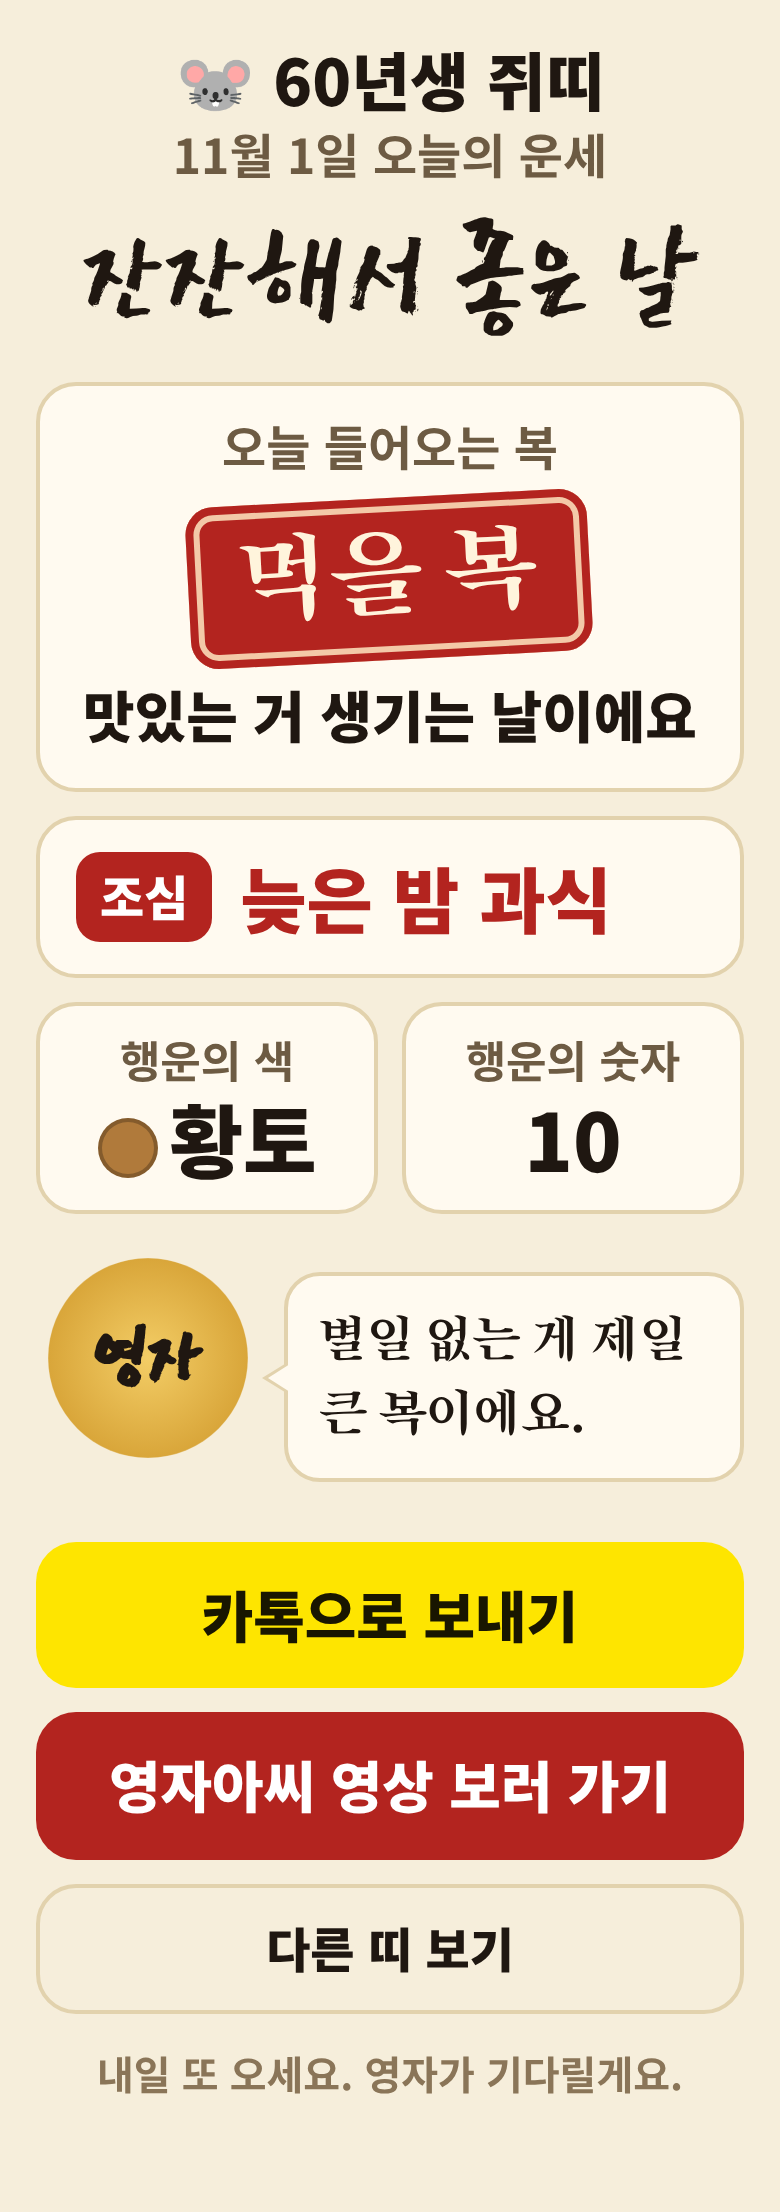
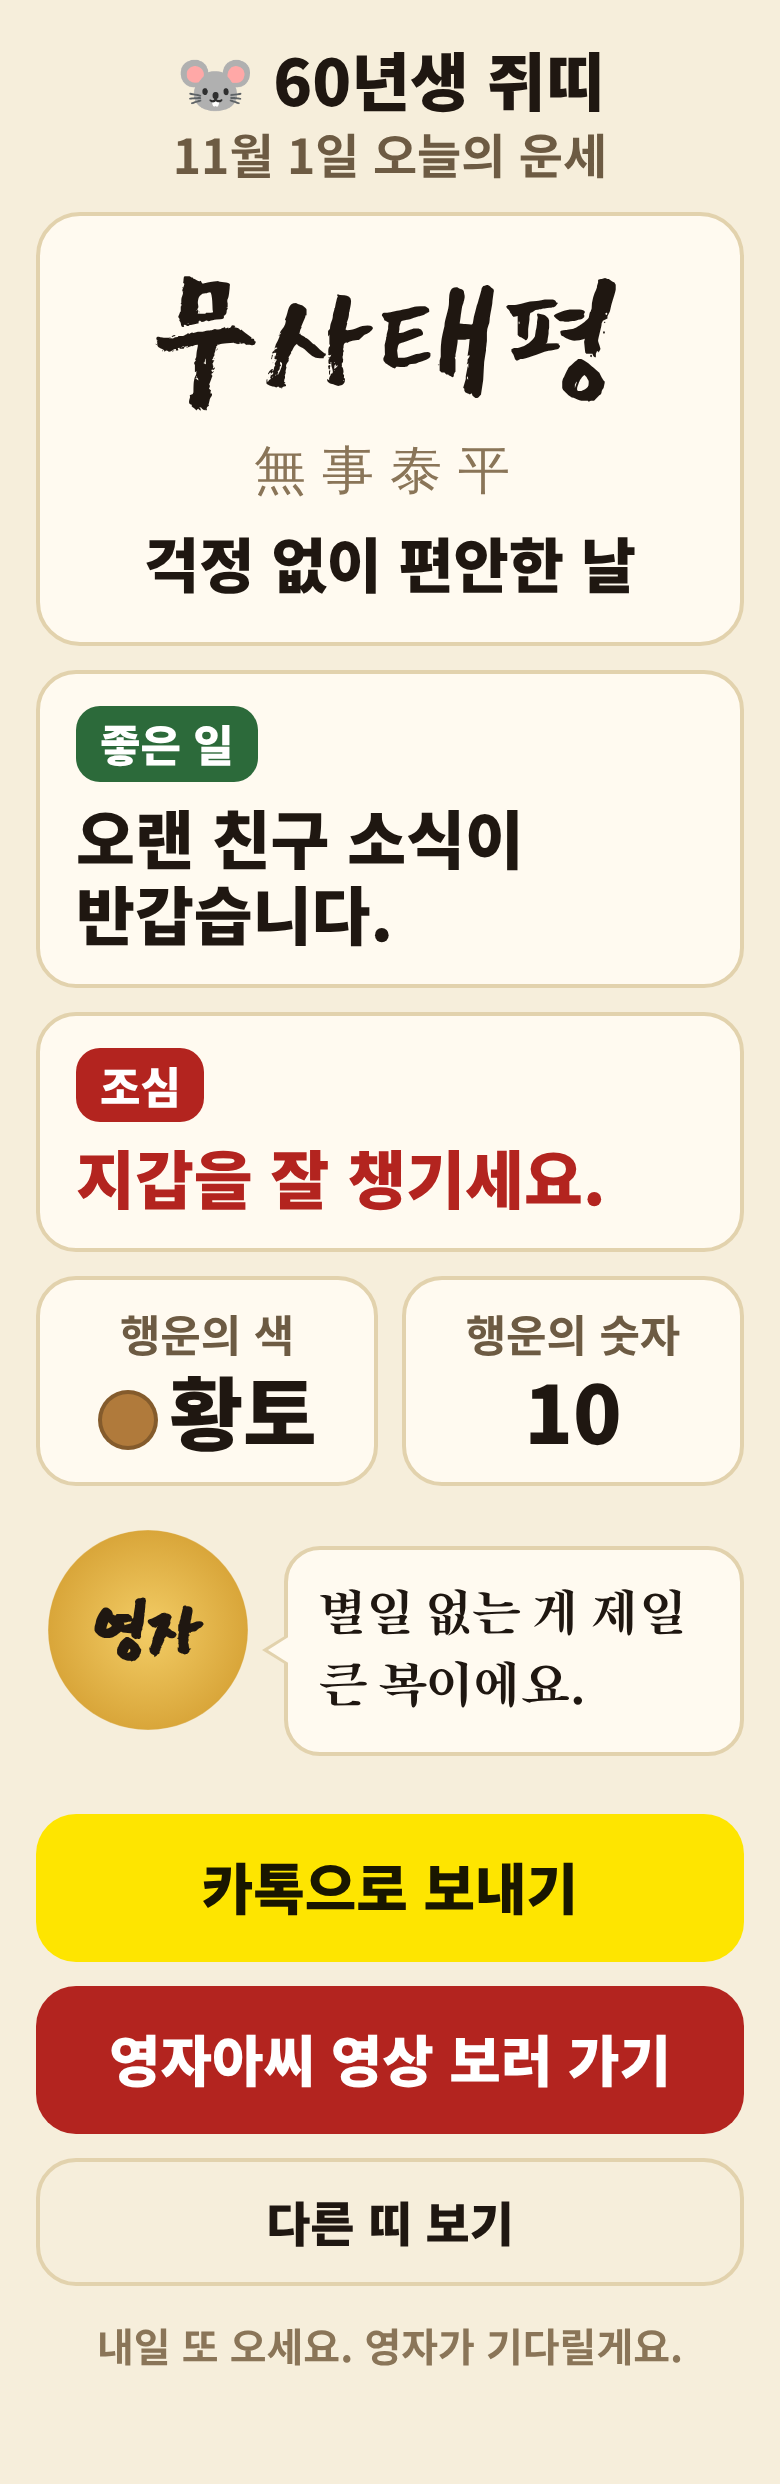
Switch fortune wording to 사자성어 + plain sentences
Show the day's four-character idiom with hanja and a short meaning, then
one good-news sentence and one caution sentence in newspaper-fortune
tone. Stack labels above sentences so they don't wrap awkwardly.

Claude-Session: https://claude.ai/code/session_01RqV21N3stmeH9jkkJL7uKz

diff --git a/yeongja-fortune/fortune.js b/yeongja-fortune/fortune.js
@@ -72,41 +72,52 @@
     };
   }
 
+  // 그날의 기운별 사자성어 [한글, 한자, 풀이], 좋은 일, 영자 한마디
   var TEXT = {
     great: {
-      head: ['복이 문 두드리는 날', '술술 풀리는 날', '웃을 일 생기는 날'],
-      say: ['들어오는 복, 문 열어 두세요.', '오늘은 영자가 장담해요.', '미뤄둔 일, 오늘 하세요.']
+      saja: [['운수대통', '運數大通', '운이 크게 트이는 날'],
+             ['만사형통', '萬事亨通', '모든 일이 뜻대로 되는 날'],
+             ['금상첨화', '錦上添花', '좋은 일에 좋은 일이 겹치는 날'],
+             ['소원성취', '所願成就', '바라던 일이 이루어지는 날']],
+      good: ['막혔던 일이 술술 풀립니다.', '반가운 소식이 들려옵니다.', '뜻밖의 돈이 들어옵니다.',
+             '귀한 사람을 만납니다.', '자식 일로 웃을 일이 생깁니다.'],
+      say: ['오늘은 웃을 일만 있을 거예요.', '좋은 기운, 꼭 붙잡으세요.']
     },
     same: {
-      head: ['내 기운 센 날', '밀어붙여도 되는 날'],
-      say: ['오늘은 내가 주인공이에요.', '하고 싶던 말, 해도 돼요.']
+      saja: [['승승장구', '乘勝長驅', '기세 좋게 뻗어 나가는 날'],
+             ['일취월장', '日就月將', '하는 일마다 나아지는 날']],
+      good: ['마음먹은 일을 시작하기 좋습니다.', '오래 바라던 일에 길이 보입니다.', '하는 말에 힘이 실립니다.'],
+      say: ['오늘은 마음먹은 대로 하세요.']
     },
     normal: {
-      head: ['잔잔해서 좋은 날', '평소대로가 복인 날', '무난하게 흘러가는 날'],
-      say: ['별일 없는 게 제일 큰 복이에요.', '오늘은 마음 편히 쉬세요.']
+      saja: [['무사태평', '無事泰平', '걱정 없이 편안한 날'],
+             ['안분지족', '安分知足', '가진 것에 감사하면 복이 되는 날'],
+             ['유비무환', '有備無患', '미리 챙기면 걱정 없는 날']],
+      good: ['집안이 두루 편안합니다.', '오랜 친구 소식이 반갑습니다.', '작은 기쁨이 쌓이는 하루입니다.',
+             '몸과 마음이 편안합니다.'],
+      say: ['별일 없는 게 제일 큰 복이에요.', '오늘도 무탈하게 보내세요.']
     },
     wonjin: {
-      head: ['말 한마디 아끼는 날', '서운함 넘기는 날'],
-      say: ['서운한 말은 내일 하세요.', '한 번만 웃고 넘기세요.']
+      saja: [['역지사지', '易地思之', '상대 입장에서 생각하면 풀리는 날'],
+             ['인지위덕', '忍之爲德', '참는 것이 덕이 되는 날'],
+             ['구시화문', '口是禍門', '입을 무겁게 해야 하는 날']],
+      good: ['한 번 참으면 나중에 웃습니다.', '먼저 웃으면 마음이 풀립니다.', '가족과 함께하면 마음이 놓입니다.'],
+      say: ['서운한 말은 한 번 참으세요.']
     },
     chung: {
-      head: ['한 박자 쉬어 가는 날', '서두르면 손해 보는 날'],
-      say: ['천천히 가도 늦지 않아요.', '오늘은 큰일 미루세요.']
+      saja: [['심사숙고', '深思熟考', '깊이 생각하고 움직일 날'],
+             ['자중자애', '自重自愛', '몸과 마음을 아껴야 하는 날'],
+             ['유비무환', '有備無患', '미리 챙기면 걱정 없는 날']],
+      good: ['한 걸음 물러서면 길이 보입니다.', '집에서 쉬면 복이 됩니다.', '가족과 함께하면 마음이 놓입니다.'],
+      say: ['천천히 가도 늦지 않아요.']
     }
   };
 
-  // 오늘 들어오는 복: [이름, 짧은 설명]
-  var BOK = [
-    ['재물복', '돈이 들어오는 날이에요'],
-    ['자식복', '자식 덕 보는 날이에요'],
-    ['인복', '좋은 사람 만나는 날이에요'],
-    ['건강복', '몸이 가벼운 날이에요'],
-    ['먹을 복', '맛있는 거 생기는 날이에요']
-  ];
-  var CAREFUL = ['말 한마디', '충동구매', '보증·돈 빌려주기', '찬 음식', '계단·빙판',
-    '과속 운전', '남의 일 참견', '모르는 전화', '뜨거운 물', '늦은 밤 과식',
-    '약속 늦기', '허리 삐끗', '지갑 분실', '큰 결정'];
-  var CAREFUL_CHUNG = ['과속 운전', '계단·빙판', '큰 결정', '허리 삐끗', '모르는 전화'];
+  var CAREFUL = ['돈 빌려주면 못 받습니다.', '보증은 서지 마세요.', '말 한마디가 화를 부릅니다.',
+    '남의 일에 끼어들지 마세요.', '모르는 전화는 받지 마세요.', '계단에서 발밑을 살피세요.',
+    '찬 음식은 탈이 납니다.', '충동구매는 후회합니다.', '밤늦게 많이 드시지 마세요.', '지갑을 잘 챙기세요.'];
+  var CAREFUL_CHUNG = ['운전은 천천히 하세요.', '큰돈 드는 결정은 미루세요.', '무거운 것은 들지 마세요.',
+    '계단에서 발밑을 살피세요.', '모르는 전화는 받지 마세요.'];
 
   // input: { year: 1960 } — 태어난 해만 받는다. today: Date
   function getFortune(input, today) {
@@ -129,7 +140,6 @@
     if ((dayEl + 2) % 5 !== myEl) candidates.push(dayEl); // 오늘 기운이 나를 누르지 않을 때만
     var el = ELEMENTS[pick(candidates)];
 
-    var bok = pick(BOK);
     var careful = pick(rel === 'chung' ? CAREFUL_CHUNG : CAREFUL);
 
     return {
@@ -139,10 +149,9 @@
       dayName: STEMS[day.stem] + BRANCHES[day.branch] + '일',
       date: tm + '월 ' + td + '일',
       level: rel,
-      head: pick(TEXT[rel].head),
+      saja: pick(TEXT[rel].saja),
+      good: pick(TEXT[rel].good),
       say: pick(TEXT[rel].say),
-      bok: bok[0],
-      bokDesc: bok[1],
       careful: careful,
       color: pick(el.colors),
       number: pick(el.numbers),

diff --git a/yeongja-fortune/index.html b/yeongja-fortune/index.html
@@ -63,19 +63,19 @@
   /* 결과 */
   .who { text-align: center; font-size: 32px; font-weight: 900; }
   .date { text-align: center; font-size: 24px; color: #6d5b43; }
-  .head { text-align: center; font-family: var(--brush); font-weight: 400; font-size: 70px; line-height: 1.05;
-    margin: 8px 0 16px; word-break: keep-all; color: var(--red); }
-  .head.normal { color: var(--ink); }
+  .saja { text-align: center; background: var(--card); border: 2px solid var(--line); border-radius: 22px; padding: 16px 10px 20px; margin: 12px 0; }
+  .saja-word { font-family: var(--brush); font-weight: 400; font-size: 92px; line-height: 1; color: var(--red); letter-spacing: 2px; }
+  .saja.normal .saja-word { color: var(--ink); }
+  .saja-hanja { font-family: var(--myung); font-weight: 400; font-size: 26px; color: #8a7558; letter-spacing: 8px; margin-top: 2px; }
+  .saja-mean { font-size: 30px; font-weight: 900; margin-top: 8px; word-break: keep-all; }
   .row { display: flex; align-items: center; gap: 14px; background: var(--card); border: 2px solid var(--line);
     border-radius: 20px; padding: 16px 18px; margin-bottom: 12px; }
   .row .tag { flex: none; color: #fff; font-size: 24px; font-weight: 900; padding: 6px 12px; border-radius: 12px; }
   .row .val { font-size: 36px; font-weight: 900; line-height: 1.2; word-break: keep-all; }
-  .bok { background: var(--card); border: 2px solid var(--line); border-radius: 20px; padding: 14px 12px 18px; margin-bottom: 12px; text-align: center; }
-  .bok-title { font-size: 24px; color: #6d5b43; }
-  .bok-seal { display: inline-block; margin: 10px 0 8px; padding: 10px 26px 14px; background: var(--red); color: #fff4dc;
-    font-family: var(--myung); font-weight: 400; font-size: 52px; line-height: 1.1; border-radius: 14px; transform: rotate(-3deg);
-    box-shadow: inset 0 0 0 4px #b3241f, inset 0 0 0 7px #f3c9a8; }
-  .bok-desc { font-size: 28px; font-weight: 900; word-break: keep-all; }
+  .row { flex-direction: column; align-items: flex-start; gap: 8px; }
+  .row .tag { font-size: 22px; padding: 4px 12px; }
+  .row .val { font-size: 32px; }
+  .good .tag { background: #2c6a3a; }
   .bad .tag { background: var(--red); }
   .bad .val { color: var(--red); }
   .lucky { display: grid; grid-template-columns: 1fr 1fr; gap: 12px; margin-bottom: 18px; }
@@ -120,13 +120,13 @@
   <section id="step-result" class="hidden">
     <div class="who" id="r-who"></div>
     <div class="date" id="r-date"></div>
-    <div class="head" id="r-head"></div>
-
-    <div class="bok">
-      <div class="bok-title">오늘 들어오는 복</div>
-      <div class="bok-seal" id="r-bok"></div>
-      <div class="bok-desc" id="r-bokdesc"></div>
+    <div class="saja" id="r-saja">
+      <div class="saja-word" id="r-word"></div>
+      <div class="saja-hanja" id="r-hanja"></div>
+      <div class="saja-mean" id="r-mean"></div>
     </div>
+
+    <div class="row good"><span class="tag">좋은 일</span><span class="val" id="r-good"></span></div>
     <div class="row bad"><span class="tag">조심</span><span class="val" id="r-bad"></span></div>
 
     <div class="lucky">
@@ -190,10 +190,11 @@
     var f = F.getFortune({ year: year }, new Date());
     $('r-who').textContent = f.emoji + ' ' + f.yy + '년생 ' + f.animal + '띠';
     $('r-date').textContent = f.date + ' 오늘의 운세';
-    $('r-head').textContent = f.head;
-    $('r-head').className = 'head ' + f.level;
-    $('r-bok').textContent = f.bok;
-    $('r-bokdesc').textContent = f.bokDesc;
+    $('r-word').textContent = f.saja[0];
+    $('r-hanja').textContent = f.saja[1];
+    $('r-mean').textContent = f.saja[2];
+    $('r-saja').className = 'saja ' + f.level;
+    $('r-good').textContent = f.good;
     $('r-bad').textContent = f.careful;
     $('r-color').innerHTML = '<span class="dot" style="background:' + f.color.c + '"></span>' + f.color.n;
     $('r-num').textContent = f.number;

diff --git a/yeongja-fortune/README.md b/yeongja-fortune/README.md
@@ -2,8 +2,8 @@
 
 영자아씨 채널 댓글에 걸 웹 운세 페이지예요. 시니어가 쓰기 쉽게, 글자 입력 없이 **내 띠 → 내 년생** 두 번만 누르면 그날의 운세가 큰 글씨로 짧게 나와요. 다음에 들어오면 바로 내 운세가 보여요.
 
-- 한 줄 제목 (예: "복이 문 두드리는 날")
-- 오늘 들어오는 복 (재물복·자식복·인복·건강복·먹을 복) + 조심 한 가지
+- 오늘의 사자성어 + 한자 + 쉬운 풀이 (예: 운수대통 運數大通 — 운이 크게 트이는 날)
+- 좋은 일 한 문장, 조심 한 문장 (신문 운세 말투)
 - 행운의 색 · 숫자
 - 카톡으로 보내기 버튼
 - 영자의 한마디
@@ -16,5 +16,5 @@
 
 ## 고치는 곳
 - 영자 그림: `assets/yeongja.png` (배경이 투명한 PNG, 세로형 권장)
-- 문구: `fortune.js` 안의 `TEXT`, `BOK`, `CAREFUL`
+- 문구: `fortune.js` 안의 `TEXT`(사자성어·좋은 일·영자 한마디), `CAREFUL`(조심)
 - 채널 주소: `index.html` 안의 `CHANNEL_URL`
